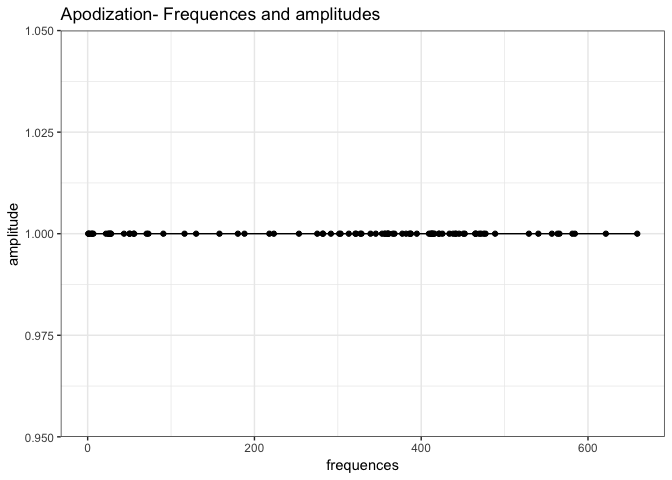
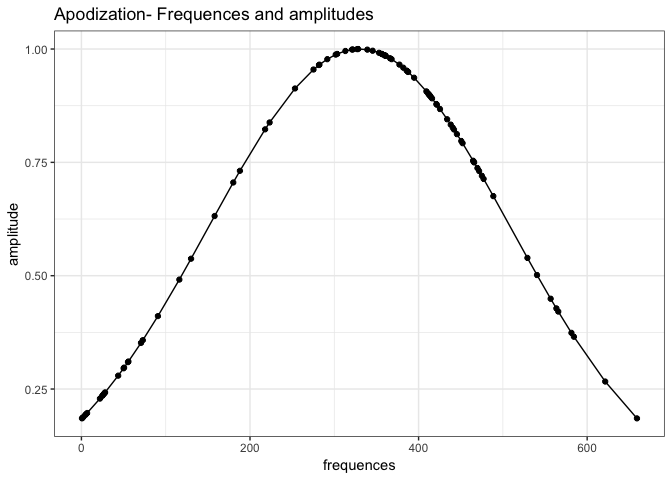
Documentation and Readme updated

diff --git a/README.md b/README.md
@@ -1,16 +1,35 @@
 
-## Variable Stars [![Build Status](https://travis-ci.org/rmaestre/variableStars.svg?branch=master)](https://travis-ci.org/rmaestre/variableStars)
+[![Build Status](https://travis-ci.org/rmaestre/variableStars.svg?branch=master)](https://travis-ci.org/rmaestre/variableStars)
 
-### Finding patterns on variable stars
+Introduction
+------------
 
-Variable Star package provides the main funtions to analized patterns on variable stars (tbd). All funcionalities are programmed in Cpp using RcppArmadillo integrated thorugh Rcpp.
+Variable Star package provides the main funtions to analized patterns on variable stars. All funcionalities are programmed in Cpp using RcppArmadillo integrated thorugh Rcpp.
 
-###  Example of use on a pulsar data
+All the code is based on these two papers:
 
-Please, find [here](docs/Experiments.md) the main execution of the complete package procedure.
+-   [Asteroseismic analysis of the CoRoT *δ* Scuti star HD 174936](https://www.aanda.org/articles/aa/full_html/2009/40/aa11932-09/aa11932-09.html)
 
-###  Main Workflow
+-   [An in-depth study of HD 174966 with CoRoT photometry and HARPS spectroscopy](https://www.aanda.org/articles/aa/full_html/2013/11/aa20256-12/aa20256-12.html)
 
-<img src="https://raw.githubusercontent.com/rmaestre/variableStars/master/docs/figures/workflow.png" width="600"/>
+Installation
+------------
+
+``` r
+install.packages("devtools")
+library(devtools)
+install_github("rmaestre/variableStars")
+runUI()
+```
+
+Example of use on a pulsar data
+-------------------------------
+
+Please, find [here](docs/Experiment_-_HD174936.md) or [here](docs/Experiment_-_HD174966.md) the main execution of the complete package procedure.
+
+Main Workflow
+-------------
+
+[![Workflow](docs/figures/workflow.png)](docs/figures/workflow.png)
 
 (The pulsar in the Crab Nebula is composed by images taken by Hubble (red) and Chandra X-Ray(blue))

diff --git a/docs/Experiment_-_HD174936.md b/docs/Experiment_-_HD174936.md
@@ -61,7 +61,7 @@ plot_spectrum(-5, 80, dt.star)
 result <- process(
   dt.star$frequency,
   dt.star$amplitude,
-  filter = "uniform",
+  filter = "gaussian",
   gRegimen = 0,
   minDnu = 15,
   maxDnu = 95,
@@ -82,8 +82,8 @@ result <- process(
     ##  Iteration over range: 30
     ##    Frequencies selected: 377.298, 412.711, 414.62, 360.076, 339.22, 367.963, 321.916, 387.625, 359.466, 0.660089, 
     ##    Amplitudes selected: 2.1216, 1.0158, 0.7157, 0.5646, 0.5463, 0.5303, 0.3623, 0.3193, 0.2997, 0.2947, 
-    ##     Dnu: 9.4051
-    ##     Dnu Peak: 9.4051
+    ##     Dnu: 4.3066
+    ##     Dnu Peak: 4.3066
     ##     Dnu Guess: 0.22003
     ##     Cross correlation calculated:
     ##  Iteration over range: 60
